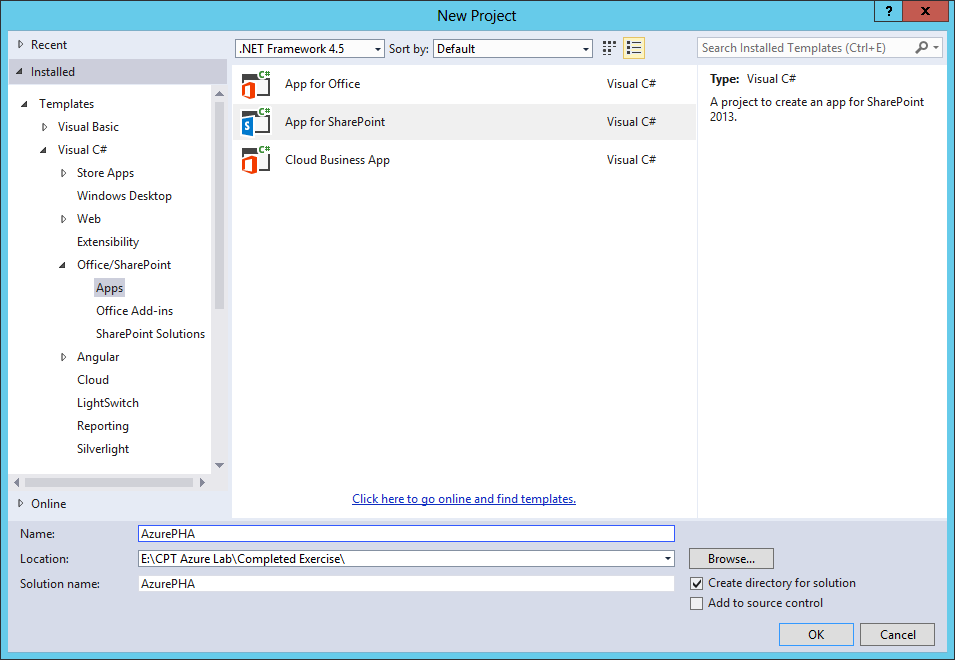
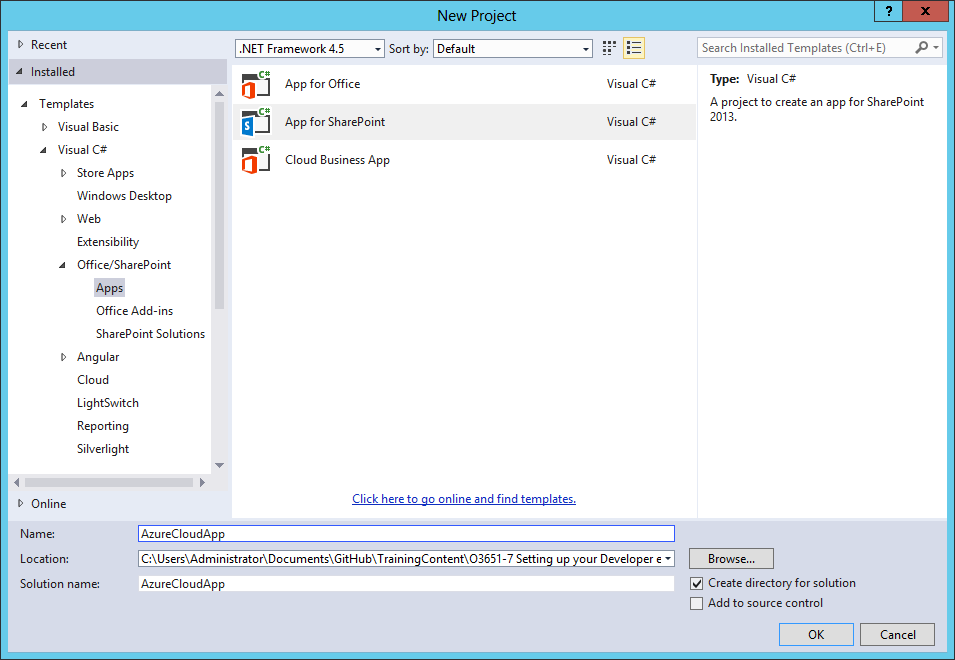
Lab update

Changed region(s): [[0.1518, 0.7879, 0.6681, 0.9091]]

diff --git a/O3651-7 Setting up your Developer environment in Office 365/Lab.md b/O3651-7 Setting up your Developer environment in Office 365/Lab.md
@@ -27,7 +27,7 @@ In this exercise you create a new provider-hosted app for your O365 subscription
   3. In the New Project dialog:
     1. Select **Templates/Visual C#/Office/SharePoint/Apps**.
     2. Click **App for SharePoint 2013**.
-    3. Name the new project **AzurePHA** and click **OK**.
+    3. Name the new project **AzureCloudApp** and click **OK**.
        ![](Images/3.png?raw=true "Figure 3")
   4. In the New App for SharePoint wizard:
     1. Enter the address of a SharePoint site to use for testing the app (***NOTE:*** The targeted site must be based on a Developer Site template)
@@ -57,6 +57,7 @@ In this exercise, you will add additional functionality to the app to read data 
   2. Click **Web Sites**.
   3. Click **New**.
   4. Click **Custom Create**.
+       ![](Images/18.png?raw=true "Figure 9")
   5. Enter a URL for the application. (**NOTE:** URLs must be globally unique, so you will have to choose one not used by another.)
   6. Select **Create New Web Hosting Plan**.
   7. Select an appropriate Region.
@@ -208,12 +209,9 @@ In this exercise, you will deploy the database and app to the O365/Azure environ
   5. Click the app installer.
   6. When prompted, click Trust It.
 8. Test the App
-```
-> Comment
-```
   1. Use the tile to launch the app.
   2. Verify that data from the SQL Azure database appears in the app.
   3. Manually remove /Customers from the URL in the browser. This should navigate you to the home page where you should be welcomed validating that the app communicates with SharePoint.
 
->  Congratulations! You have completed building a provider-hosted app using Office 365 and Azure.
+** Congratulations! You have completed building a provider-hosted app using Office 365 and Azure. **
 
